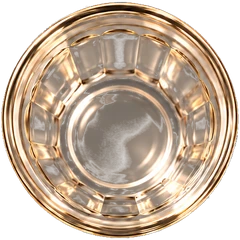
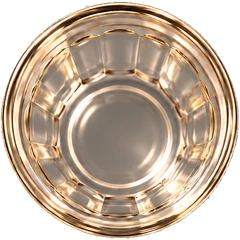
S12 W3-B SH-121: the served moment (the dish named, its card up top-left, into the left bar, stamped, barabar); CHAI-26 timings and manifest; the report and filmstrips
Claude-Session: https://claude.ai/code/session_01Ktqv9q93wSPTjRME869DVF

diff --git a/js/cook/flow.js b/js/cook/flow.js
@@ -885,6 +885,130 @@ import { setTimeout, clearTimeout, setInterval, clearInterval, requestAnimationF
     });
   }
 
+  /*
+   * SH-121 (Zafar, 22 Oct, A7: "the tea is ... on the tray in front of him. Then he should say aah. Chai and the picture
+   * card for chai comes up in the top left. And then maybe goes into the left sidebar and he says baraba and it gets ...
+   * stamped ... order served ... then he says thank you and he goes ... a bit of a satisfying sound and visual ... for all
+   * the game modes. So then you understand what chaat is and what samosa is"): every order's dish, once it sits on the
+   * customer's tray, is named by them ("Ahhh..." and the dish's word: the engine's own lines, the "Ahhh..." still to record,
+   * so grey English until Mum records it), while its picture card rises from them to the stage's top left, large; it slides
+   * into the left bar over their order card, they say "barabar" (just right: Mum's word) and a "served" stamp (a tick, no
+   * words: non-negotiable 3) lands on it with a soft sound. The caller then has them say thank you and go. One card per
+   * dish (an order of two dishes shows two). The cards go when the end screen comes (servedCardsAway).
+   */
+  const servedCards = [];
+  function servedCardsAway() {
+    servedCards.splice(0).forEach((el) => {
+      el.style.transition = "opacity 300ms ease";
+      el.style.opacity = "0";
+      setTimeout(() => el.remove(), 320);
+    });
+  }
+  const STAMP_SVG =
+    '<svg viewBox="0 0 100 100" width="100%" height="100%" aria-hidden="true"><circle cx="50" cy="50" r="44" fill="rgba(255,255,255,0.55)" stroke="#2f7d4a" stroke-width="7"/><circle cx="50" cy="50" r="35" fill="none" stroke="#2f7d4a" stroke-width="2.5" stroke-dasharray="5 4"/><path d="M30 52 L45 66 L71 37" fill="none" stroke="#2f7d4a" stroke-width="10" stroke-linecap="round" stroke-linejoin="round"/></svg>';
+  async function servedMoment(order, who) {
+    const dishes = [...new Set(order.dishes.map((d) => d.recipe))].filter((r) => r && R[r]);
+    if (!dishes.length || !S() || !S().chars) return;
+    const stage = $("#stage");
+    if (!stage) return;
+    const sr = stage.getBoundingClientRect();
+    // where they are on screen: their face, the card's start
+    const img = S().chars[who];
+    let from = { x: sr.left + sr.width * 0.6, y: sr.top + sr.height * 0.3 };
+    try {
+      const b = img && img.getBounds();
+      if (b) {
+        const p = UI.worldToScreen(b.centerX, b.top + b.height * 0.25);
+        from = { x: p.x, y: p.y };
+      }
+    } catch (e) {
+      /* (a character gone: the stage's middle) */
+    }
+    const side = $("#mission") && $("#mission").getBoundingClientRect().width > 20 ? $("#mission") : document.querySelector(".njg-side");
+    // the card's size at the top left: a third of the stage's height (two cards side by side for two dishes)
+    const big = Math.max(110, Math.min(sr.height * 0.42, (sr.width * 0.5) / dishes.length));
+    const cards = dishes.map((recipe, i) => {
+      const art = Cook.Art.servedArt(Cook.Art.servedName(recipe));
+      const word = R.dishWord(recipe);
+      const el = document.createElement("div");
+      el.className = "njg-served-card";
+      el.dataset.recipe = recipe;
+      Object.assign(el.style, {
+        position: "fixed", zIndex: "60", left: "0px", top: "0px", width: `${big}px`, boxSizing: "border-box", padding: `${big * 0.05}px`,
+        background: "#fffaf1", borderRadius: `${big * 0.08}px`, boxShadow: "0 6px 18px rgba(60,40,20,0.28)", border: "3px solid #e2c68f",
+        display: "flex", flexDirection: "column", alignItems: "center", pointerEvents: "none", transformOrigin: "0 0", willChange: "transform, opacity",
+        transition: "none", opacity: "0",
+      });
+      const pic = document.createElement("div");
+      Object.assign(pic.style, { width: "100%", aspectRatio: "1 / 0.78", display: "flex", alignItems: "center", justifyContent: "center" });
+      if (art && art.file) {
+        const im = document.createElement("img");
+        im.src = Cook.v(art.file);
+        im.alt = "";
+        Object.assign(im.style, { maxWidth: "100%", maxHeight: "100%", objectFit: "contain" });
+        pic.appendChild(im);
+      }
+      el.appendChild(pic);
+      // the dish's word (Kutchi, never English: non-negotiable 3), as the order card writes it
+      const w = document.createElement("div");
+      w.className = "njg-served-word";
+      try {
+        w.innerHTML = Lang.html(Lang.wordLine(word));
+      } catch (e) {
+        w.textContent = "";
+      }
+      Object.assign(w.style, { font: `800 ${Math.round(big * 0.15)}px Nunito, sans-serif`, color: "#8C2F2F", lineHeight: "1.1", textAlign: "center", overflowWrap: "anywhere", marginTop: `${big * 0.02}px` });
+      el.appendChild(w);
+      const stamp = document.createElement("div");
+      stamp.className = "njg-served-stamp";
+      stamp.innerHTML = STAMP_SVG;
+      Object.assign(stamp.style, { position: "absolute", right: "-6%", top: "-6%", width: "46%", aspectRatio: "1", opacity: "0", transform: "scale(1.8) rotate(-14deg)", transition: "none", pointerEvents: "none" });
+      el.appendChild(stamp);
+      document.body.appendChild(el);
+      servedCards.push(el);
+      // its place at the top left of the stage, then in the left bar (over the order card, stacked)
+      const at = { x: sr.left + 16 + i * (big + 12), y: sr.top + 16 };
+      return { el, stamp, at, i };
+    });
+    const place = (c, x, y, k, o, ms) => {
+      c.el.style.transition = ms ? `transform ${ms}ms cubic-bezier(.2,.8,.2,1), opacity ${Math.min(ms, 260)}ms ease` : "none";
+      c.el.style.transform = `translate(${x}px, ${y}px) scale(${k})`;
+      c.el.style.opacity = String(o);
+    };
+    // 1. it rises from them, small, to the top left, large
+    cards.forEach((c) => place(c, from.x - big * 0.1, from.y, 0.2, 0, 0));
+    void document.body.offsetWidth;
+    Cook.servedMoment = { who, dishes, phase: "rise" };
+    Cook.sfx.pop();
+    cards.forEach((c) => place(c, c.at.x, c.at.y, 1, 1, 650));
+    // "Ahhh..., chai": their own word for it, as it comes up
+    const said = Lang.join([Lang.line("phrase.ahhh")].concat(dishes.map((r) => Lang.wordLine(R.dishWord(r)))));
+    await Promise.all([S().talk(who, said, { after: "happy" }), Cook.wait(1400)]);
+    // 2. it slides into the left bar, over their order card
+    Cook.servedMoment.phase = "slide";
+    const tr = side ? side.getBoundingClientRect() : { left: 12, top: sr.top + 12, width: 200 };
+    const k = Math.min(1, (tr.width - 8) / big);
+    Cook.sfx.whoosh();
+    cards.forEach((c) => place(c, tr.left + 4 + c.i * 10, tr.top + 4 + c.i * 14, k, 1, 600));
+    await Cook.wait(650);
+    // 3. "barabar", and the stamp lands (a soft thump and a star)
+    Cook.servedMoment.phase = "stamp";
+    const just = Lang.line("phrase.just-right");
+    const talking = S().talk(who, just, { after: "happy" });
+    await Cook.wait(250);
+    cards.forEach((c) => {
+      c.stamp.style.transition = "transform 260ms cubic-bezier(.3,1.6,.5,1), opacity 160ms ease";
+      c.stamp.style.opacity = "1";
+      c.stamp.style.transform = "scale(1) rotate(-14deg)";
+    });
+    // (a stamp's thump, then a warm low note: never a verdict's chime)
+    Cook.sfx.chop();
+    setTimeout(() => Cook.sfx.soft(), 60);
+    await Promise.all([talking, Cook.wait(700)]);
+    // (the test hook stays up until they've gone: serve clears it)
+    Cook.servedMoment.phase = "thanks";
+  }
+
   async function serve(order, ctx) {
     const who = order.who;
     const tServed = Date.now();
@@ -951,6 +1075,8 @@ import { setTimeout, clearTimeout, setInterval, clearInterval, requestAnimationF
       // T7: Shabash from Nani, then the customer's thank you (the family's English words, G6) and khuda-fis
       if (!praised()) await S().talk("nani", shabash(), { after: "happy", ms: 900 });
       else S().setMood("nani", "happy");
+      // SH-121 (Zafar, 22 Oct, A7): the served moment, then their thanks
+      await servedMoment(order, who);
       await S().talk(who, Lang.line("thanks"), { after: "happy" });
       await S().talk(who, Lang.line("bye"));
     }
@@ -958,6 +1084,8 @@ import { setTimeout, clearTimeout, setInterval, clearInterval, requestAnimationF
     if (who !== "nani") await S().leaveChar(who);
     // the others who came in with the order (decision 53) go too
     for (const w of Object.keys(S().chars || {})) if (w !== "nani" && w !== state.waiting) await S().leaveChar(w);
+    Cook.servedMoment = null;
+    servedCardsAway();
     // Wave 6b: the shared end-of-round screen (time, accuracy, hints; then the words)
     await roundEnd(ctx, { scored });
     state.ordersServed = (state.ordersServed || 0) + 1;
@@ -2068,6 +2196,9 @@ import { setTimeout, clearTimeout, setInterval, clearInterval, requestAnimationF
   let winFocus = null;
   Cook.halt = function () {
     Cook.run++;
+    // SH-121: a served card still up goes with the game
+    Cook.servedMoment = null;
+    servedCardsAway();
     Cook.inDay = false;
     Cook.paused = false;
     Cook.onSceneReady = null;

diff --git a/build/reports/s12-w3b/cut_pour.py b/build/reports/s12-w3b/cut_pour.py
@@ -112,7 +112,7 @@ def cut_pans(sheet, suffix):
 
 def cut_glasses():
     a = np.asarray(Image.open(os.path.join(SRC, "gl-chai-glasses-top-v1.png")).convert("RGB")).astype(int)
-    al, ground = alpha_of(a, tol=5, soft=14, bg=np.array([126, 126, 126]))
+    al, ground = alpha_of(a, tol=5, soft=5, bg=np.array([126, 126, 126]))
     lab, n = ndi.label(~ground)
     sizes = ndi.sum(np.ones_like(lab), lab, range(1, n + 1))
     blobs = sorted((int(np.where(lab == i + 1)[1].min()), i + 1) for i, s in enumerate(sizes) if s > 20000)
@@ -134,7 +134,7 @@ def cut_glasses():
         rgba[..., 3] = ((al * (ndi.binary_dilation(lab == i, iterations=2)))[y0 : y0 + 2 * half, x0 : x0 + 2 * half] * 255).astype(np.uint8)
         im = Image.fromarray(rgba, "RGBA")
         s1 = 240
-        im.resize((2 * s1, 2 * s1), Image.LANCZOS).save(os.path.join(OUT, "glass", f"glass-{name}-top-s12@2x.webp"), quality=90, method=6)
+
         im.resize((s1, s1), Image.LANCZOS).save(os.path.join(OUT, "glass", f"glass-{name}-top-s12.webp"), quality=90, method=6)
         meta[f"glass-{name}"] = {"file": f"glass/glass-{name}-top-s12.webp", "w": s1, "h": s1, "r": round(r / (2 * half), 4), "fit": [round(cx, 1), round(cy, 1), round(r, 1)]}
     return meta

diff --git a/build/reports/s12-w3b.md b/build/reports/s12-w3b.md
@@ -1,0 +1,33 @@
+# s12-w3b: the pour, the served moment, loading (Sprint 12, wave 3)
+
+## Flaws first
+- CK-48: no clear speed-up. The time to the left bar is still about 1 s. The time between runs varied by ±150 ms (median of 5 at 1366x768, each request 40 ms slower). The duplicate loads are gone in my files. The rest of the time is spent loading Cook's chain of modules.
+- The black tea is maroon in the pan (PT2 frames) but amber in the s12 glass (CHAI-31's old complaint, smaller now). A recolour by hue also caught the steel's warm reflections, so I dropped it.
+- The "Ahhh..." before the dish word is still to record (`phrase.ahhh`), so it shows as grey italic English. The thanks line shows English ("Thank you!"); that was already so.
+- At 915x412 the lifted pan is shrunk to fit under the top edge.
+- No shared contract for SH-121 yet (build/sandbox is not mine).
+
+## What changed
+- **CHAI-26, CHAI-08**: `build/reports/s12-w3b/cut_pour.py` cut PT1, PT2 and GL into `assets/cook/items-s12/`. The pans are mirrored, the drip is trimmed and each frame is placed by its rim's centre. The hob pan is mirrored too, and its outline is centred on the burner. The pan is carried spout-first to up-left of the glass. The six frames play, and the stream runs from the rim. For the right glass the pan hangs over the left column. The glasses are centred in the holders' measured openings (WELLS).
+- **SH-121** (`js/cook/flow.js` servedMoment): at every customer order, after Shabash:
+  1. The customer says "Ahhh... <dish>".
+  2. The picture card rises from them to the top left.
+  3. The card slides into the left bar.
+  4. The customer says "barabar" (Mum's word). A tick stamp lands, with a thump and a soft note.
+  5. The customer says thanks and leaves.
+- **CK-48**: family-audio.json is loaded once per page (`globalThis.njgFamilyAudio`; chai 3→2, eye test 2→1). The language files load alongside the core, and Cook.load runs while the core loads. The clinic asks for its files while the engine module loads.
+  - Still to change (not my files): `js/shared/family-voice.js` and `conversations.js` should reuse `globalThis.njgFamilyAudio`.
+- I edited data/cook.json (not one of my files): I added `items-s12` to chai-tray's manifest.
+
+## Proof (1366x768, 915x412)
+- Pour: `s12-w3b/pour-1366x768-left-and-right-glass.png`, `pour-915x412-left-and-right-glass.png`
+- Served: `served-chai-1366x768.png`, `served-samosa-1366x768.png`, `served-chai-915x412.png`
+- Load times: `s12-w3b/loadtime.mjs`, median ms.
+
+| Page | Left bar, before | Left bar, after | First screen, before | First screen, after |
+|---|---|---|---|---|
+| Chai | 943–1402 | 931–1201 | 1305–2023 | 1349–1482 |
+| Eye test | 1134–1322 | 1220 | 1134 | 1220 |
+
+- checks.mjs is green (522 unit tests, load 29/29).
+- Not run: the sandbox contract matrix.
